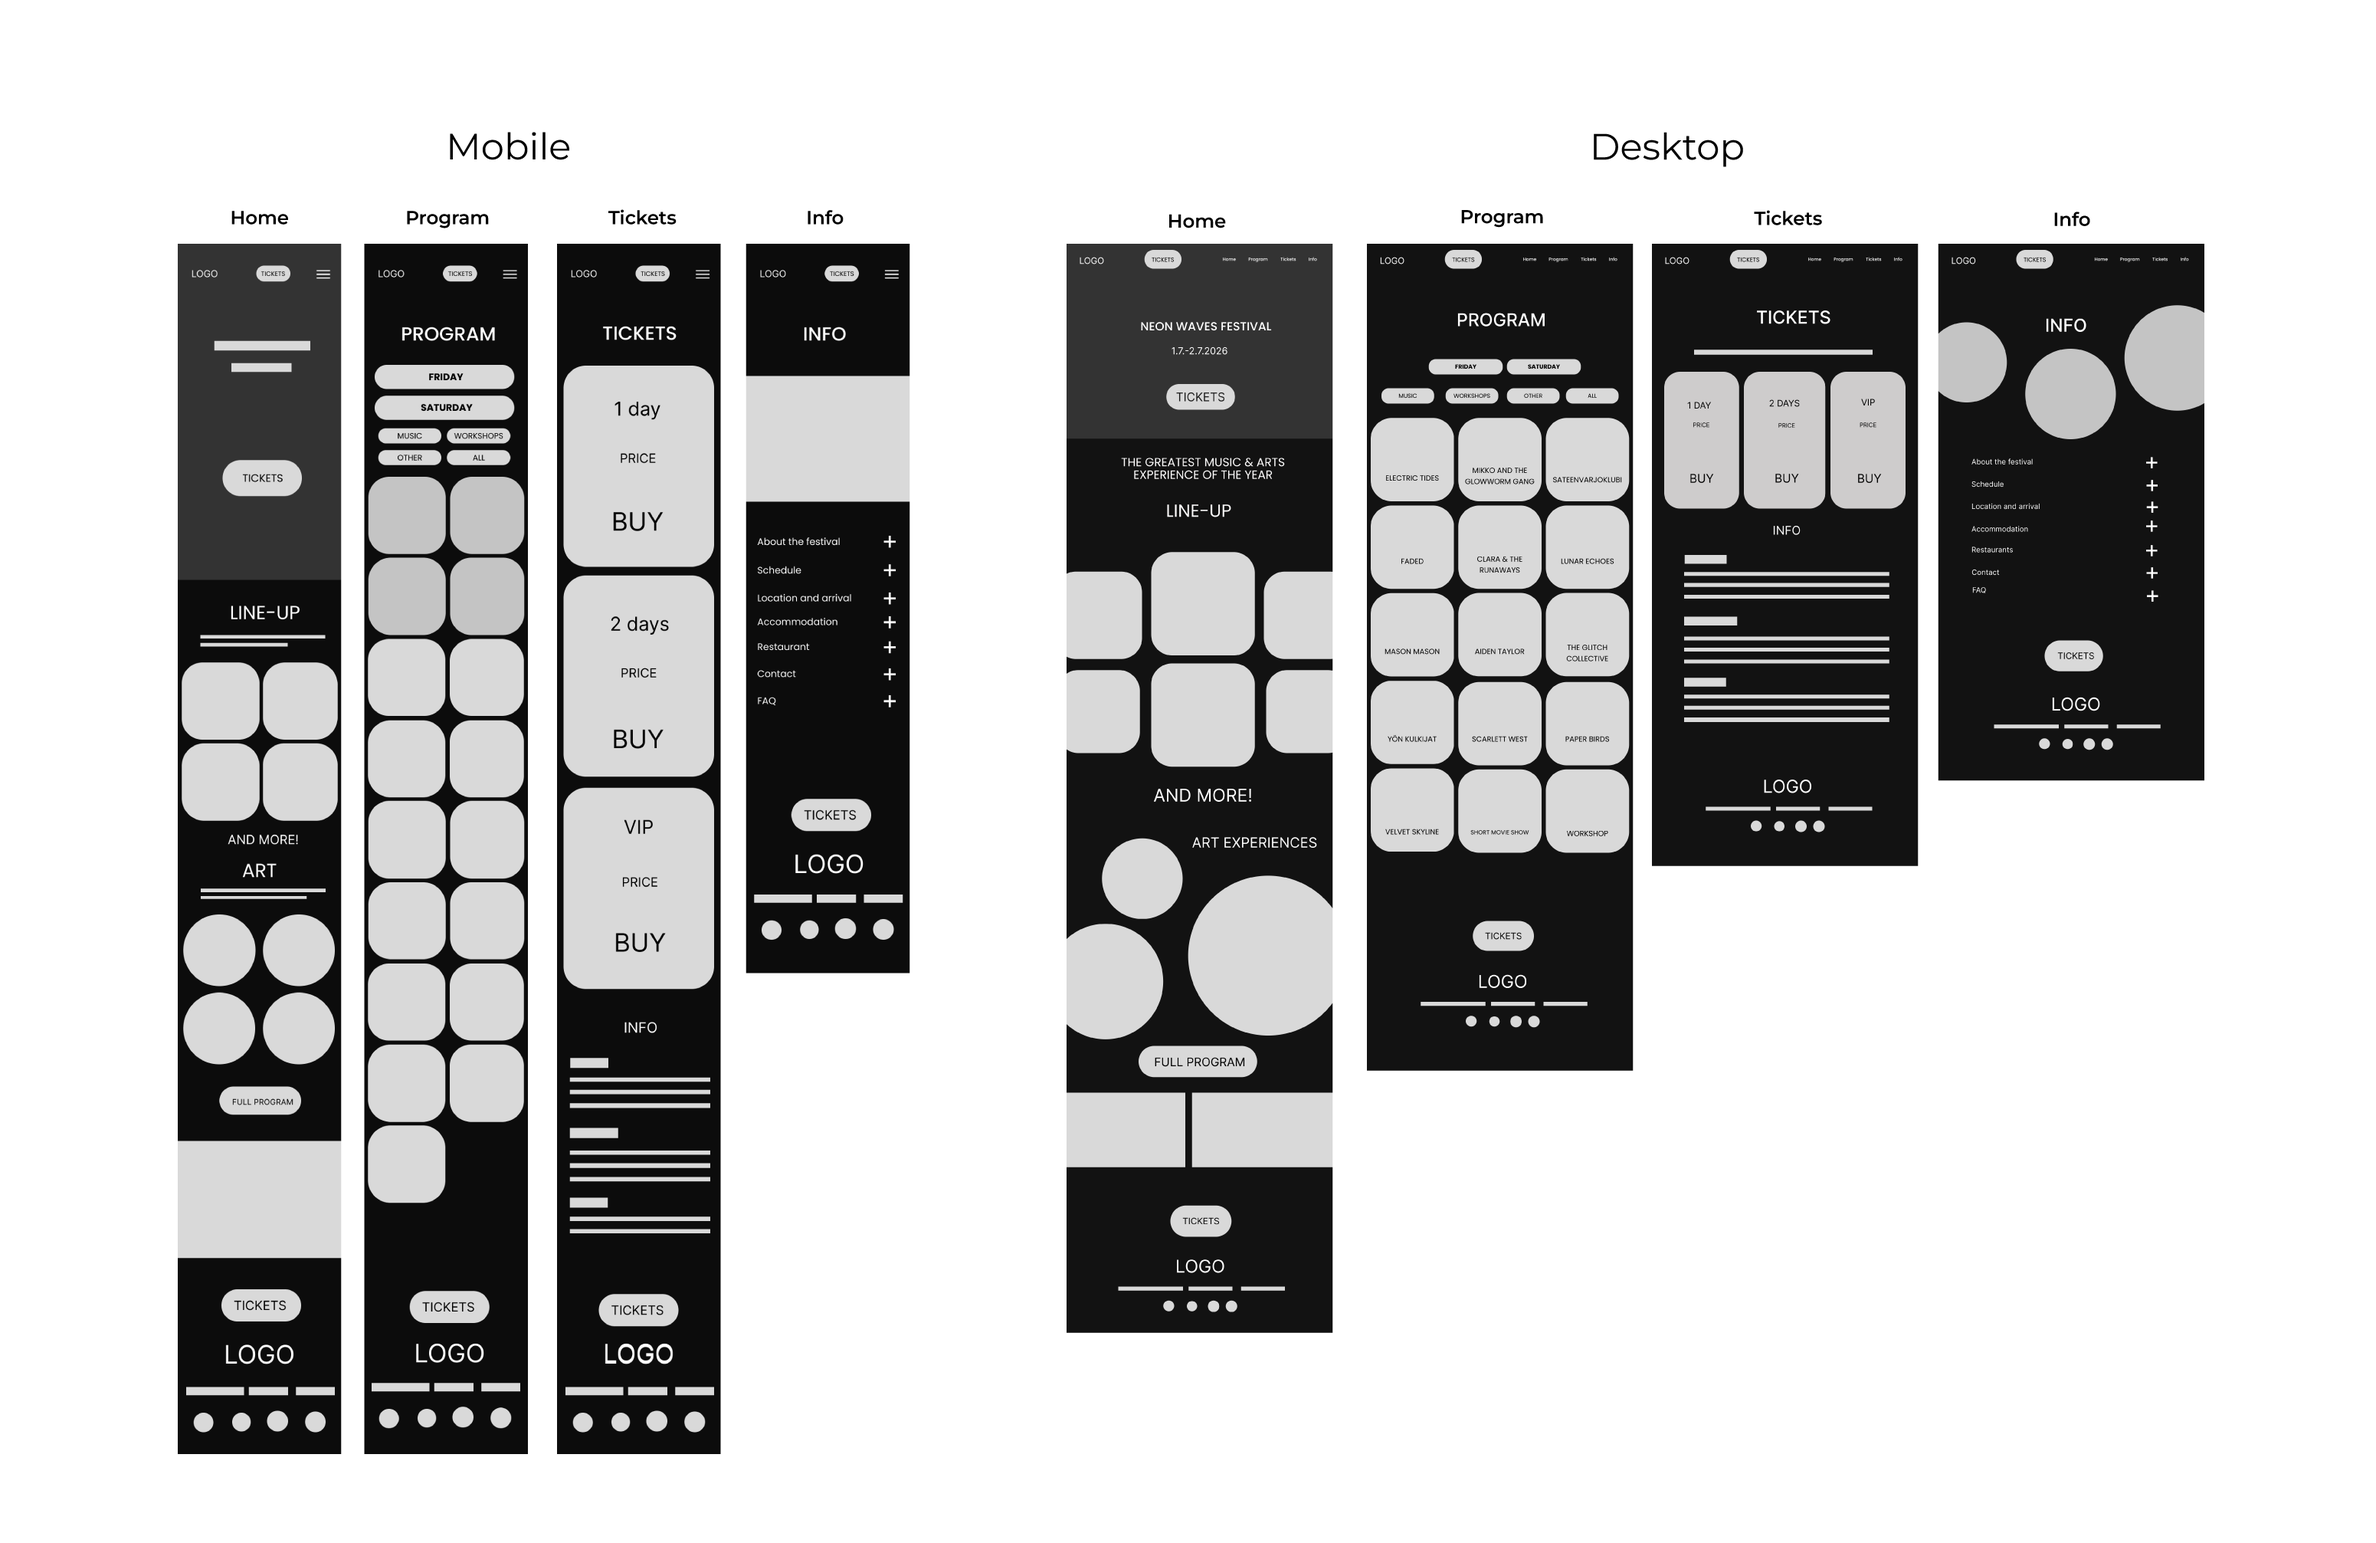
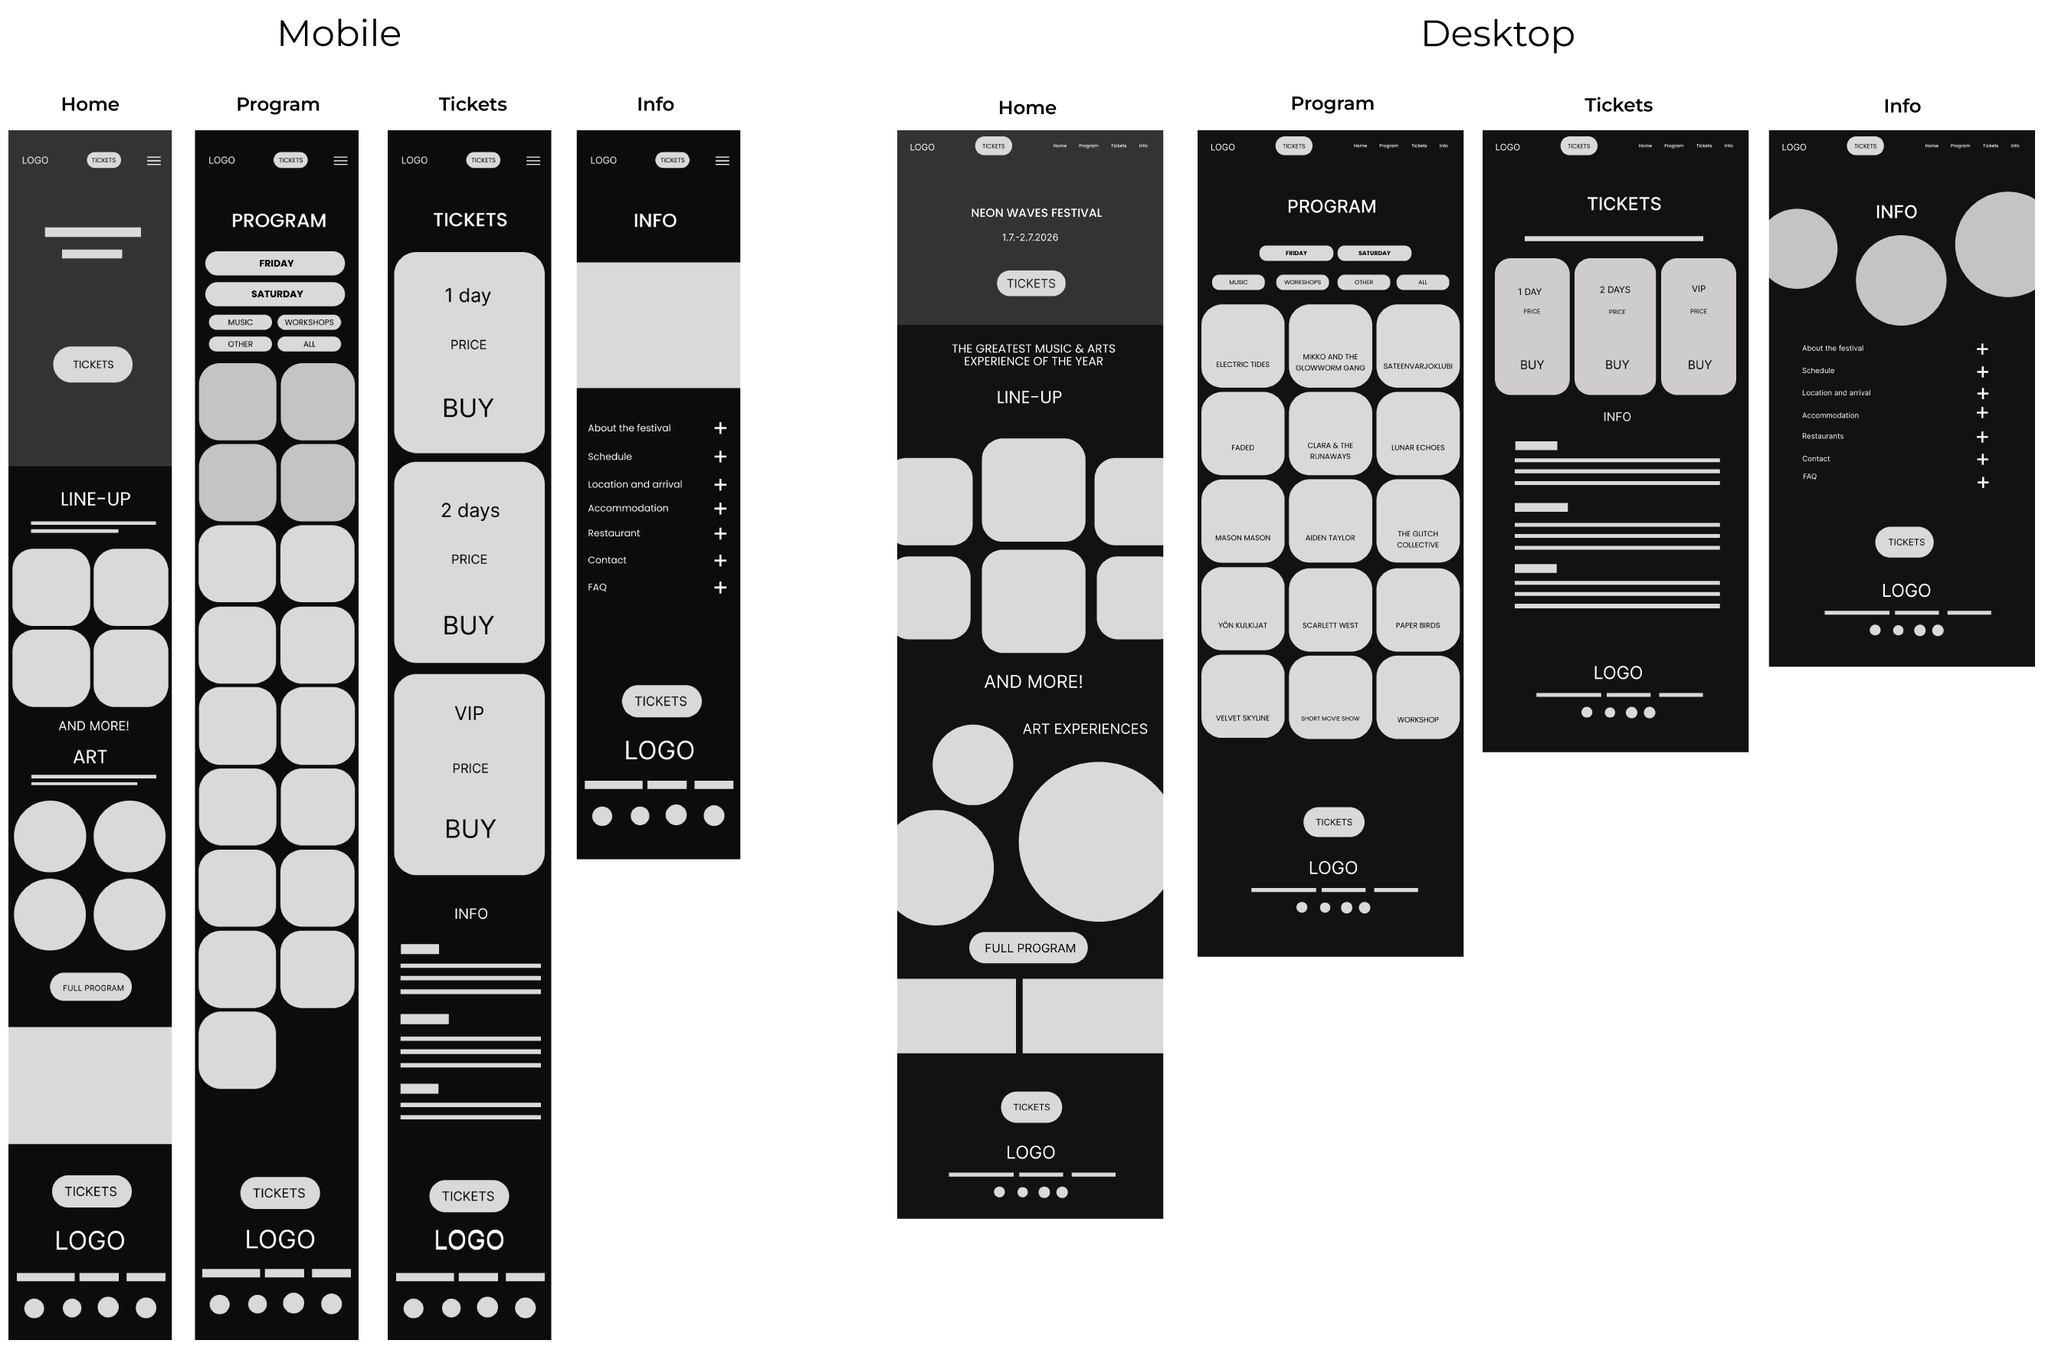
festivaaliprojektin rakenne jaoteltu komponentteihin

diff --git a/src/projects/Festivalwebsite.jsx b/src/projects/Festivalwebsite.jsx
@@ -1,68 +1,124 @@
-import { Title, List, Image, SimpleGrid } from "@mantine/core";
+import { Title, List } from "@mantine/core";
 import { ZoomableImage } from "../components/ZoomableImage";
+import CaseStudyIntro from "../components/case-studies/CaseStudyIntro";
+import CaseStudySection from "../components/case-studies/CaseStudySection";
+import CaseStudyFinalResult from "../components/case-studies/CaseStudyFinalResult";
+import CaseStudyGallery from "../components/case-studies/CaseStudyGallery";
 
 export default function Festivalwebsite() {
-  const wireframeImages = [
-    { src: "/img/neonwaves-wireframes.png", fullWidth: true, title: "Wireframes" },
-  ];
-
-  const layoutImages = [
-    { src: "/img/neonwaves-home-view.png", title: "Home view" },
-    { src: "/img/neonwaves-program-view.png", title: "Program" },
-    { src: "/img/neonwaves-tickets-view.png", title: "Tickets" },
-    { src: "/img/neonwaves-info-view.png", title: "Info" },
-    { src: "/img/neonwaves-styles-colorpalette.png", title: "Color palette" },
-    { src: "/img/neonwaves-styles-typography.png", title: "Typography" },
-  ];
-
   return (
-    <div>
-      <section className="project-section project-section--white">
-        <div className="project-content">
-        <Title order={3} mb="sm">Overview</Title>
+    <div className="case-study-page">
+
+      {/* 01 INTRO */}
+      <CaseStudyIntro variant="accent">
         <p>
-          A conceptual website project for a fictional electronic music and culture festival. 
-          The aim was to design a website concept that embodies the festival's atmosphere, 
-          engages visitors, and inspires them to explore the event, ultimately leading to ticket purchases.
+          A conceptual website project for a fictional electronic music and
+          culture festival. The aim was to design a website concept that
+          embodies the festival's atmosphere, engages visitors, and inspires
+          them to explore the event, ultimately leading to ticket purchases.
+        </p>
+      </CaseStudyIntro>
+
+      {/* 02 RESEARCH */}
+      <CaseStudySection
+        number={"02"}
+        title="Research"
+        variant="white"
+      >
+        <p>
+          I analysed several festival websites and identified trends and
+          effective solutions that I could apply to the project. The following
+          features were implemented to support the project goal:
         </p>
 
-        <Title order={4} mb="xs">Research</Title>
-        <p>
-          I analysed several festival websites and identified trends and effective solutions that I could apply to the project. 
-          The following features were implemented to support the project goal:
-        </p>
         <List spacing="sm" mb="md">
-          <List.Item>Persistent ticket purchase links in the header and footer for easy access</List.Item>
-          <List.Item>Collapsible info sections for a cleaner layout</List.Item>
-          <List.Item>Festival program filtering by date or event type</List.Item>
-          <List.Item>Minimalist mobile navigation with a hamburger menu</List.Item>
+          <List.Item>
+            Persistent ticket purchase links in the header and footer for easy access
+          </List.Item>
+          <List.Item>
+            Collapsible info sections for a cleaner layout
+          </List.Item>
+          <List.Item>
+            Festival program filtering by date or event type
+          </List.Item>
+          <List.Item>
+            Minimalist mobile navigation with a hamburger menu
+          </List.Item>
         </List>
 
-        <Title order={4} mb="xs">Styles</Title>
+        <Title order={5} mt="lg">
+          Wireframes
+        </Title>
+
+        <ZoomableImage
+          src="/img/neonwaves-wireframes.png"
+          alt="Festival website wireframes"
+        />
+      </CaseStudySection>
+
+      {/* 03 STYLES */}
+      <CaseStudySection
+        number={"03"}
+        title="Styles"
+        variant="light"
+      >
         <p>
-          The design was inspired by futuristic and urban aesthetics, using neon colors against dark backgrounds to create a "rave" feeling. 
-          I wanted to evoke the essence of electronic music through vibrant neon hues and smooth, flowing graphic elements. 
-          Rounded corners and circular shapes were used to create a fluid and dynamic visual style reinforcing a sense of movement.
+          The design was inspired by futuristic and urban aesthetics, using
+          neon colors against dark backgrounds to create a "rave" feeling.
+          I wanted to evoke the essence of electronic music through vibrant
+          neon hues and smooth, flowing graphic elements. Rounded corners
+          and circular shapes were used to create a fluid and dynamic visual
+          style reinforcing a sense of movement.
         </p>
+
         <List spacing="sm" mb="md">
-          <List.Item>Artist images and photographs generated with Adobe Firefly AI</List.Item>
-          <List.Item>Graphics were designed using Adobe Illustrator</List.Item>
+          <List.Item>
+            Artist images and photographs were generated with Adobe Firefly AI
+          </List.Item>
+          <List.Item>
+            Graphics were designed using Adobe Illustrator
+          </List.Item>
         </List>
-        <br />
-        <Title order={4} mt="lg">Wireframes</Title>
-        {wireframeImages.map((img, i) => (
-          <ZoomableImage  key={i} src={img.src} alt={img.title} style={{ width: '100%' }}></ZoomableImage>
-        ))}
 
-        <Title order={4} mt="lg">Layouts</Title>
-        <SimpleGrid cols={2} spacing="1rem" breakpoints={[{ maxWidth: 'sm', cols: 1 }]} mt="sm" mb="md">
-          {layoutImages.map((img, i) => (
-            <ZoomableImage  key={i} src={img.src} alt={img.title} style={{ width: '100%' }}></ZoomableImage>
+        <CaseStudyGallery
+          images={[
+            {
+              src: "/img/neonwaves-styles-colorpalette.png",
+              alt: "Color palette",
+            },
+            {
+              src: "/img/neonwaves-styles-typography.png",
+              alt: "Typography",
+            },
+          ]}
+        />
+      </CaseStudySection>
 
-          ))}
-        </SimpleGrid>
-        </div>
-      </section>
+      {/* 04 FINAL RESULT */}
+      <CaseStudyFinalResult
+        number={"04"}
+        title="Final result"
+        variant="white"
+        images={[
+          {
+            src: "/img/neonwaves-home-view.png",
+            alt: "Home view",
+          },
+          {
+            src: "/img/neonwaves-program-view.png",
+            alt: "Program view",
+          },
+          {
+            src: "/img/neonwaves-tickets-view.png",
+            alt: "Tickets view",
+          },
+          {
+            src: "/img/neonwaves-info-view.png",
+            alt: "Info",
+          },
+        ]}
+      />
+
     </div>
   );
 }
